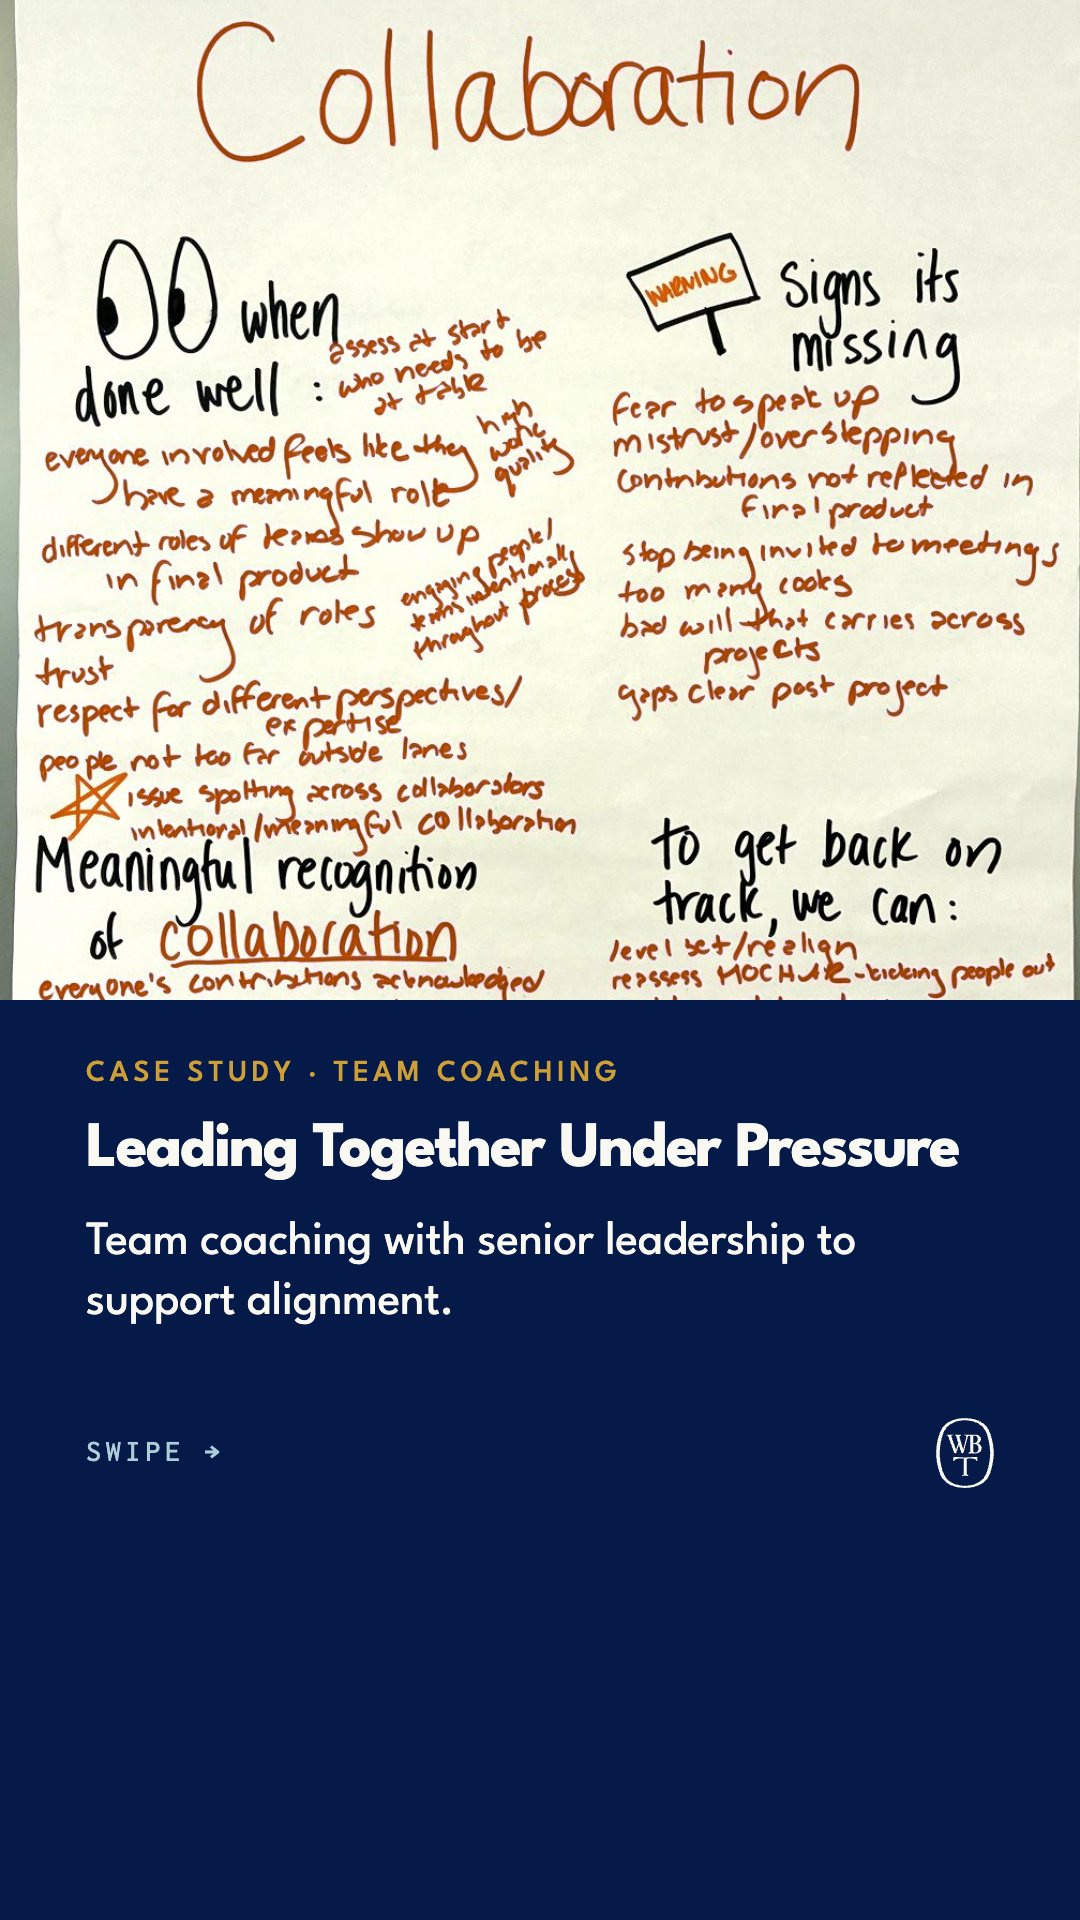
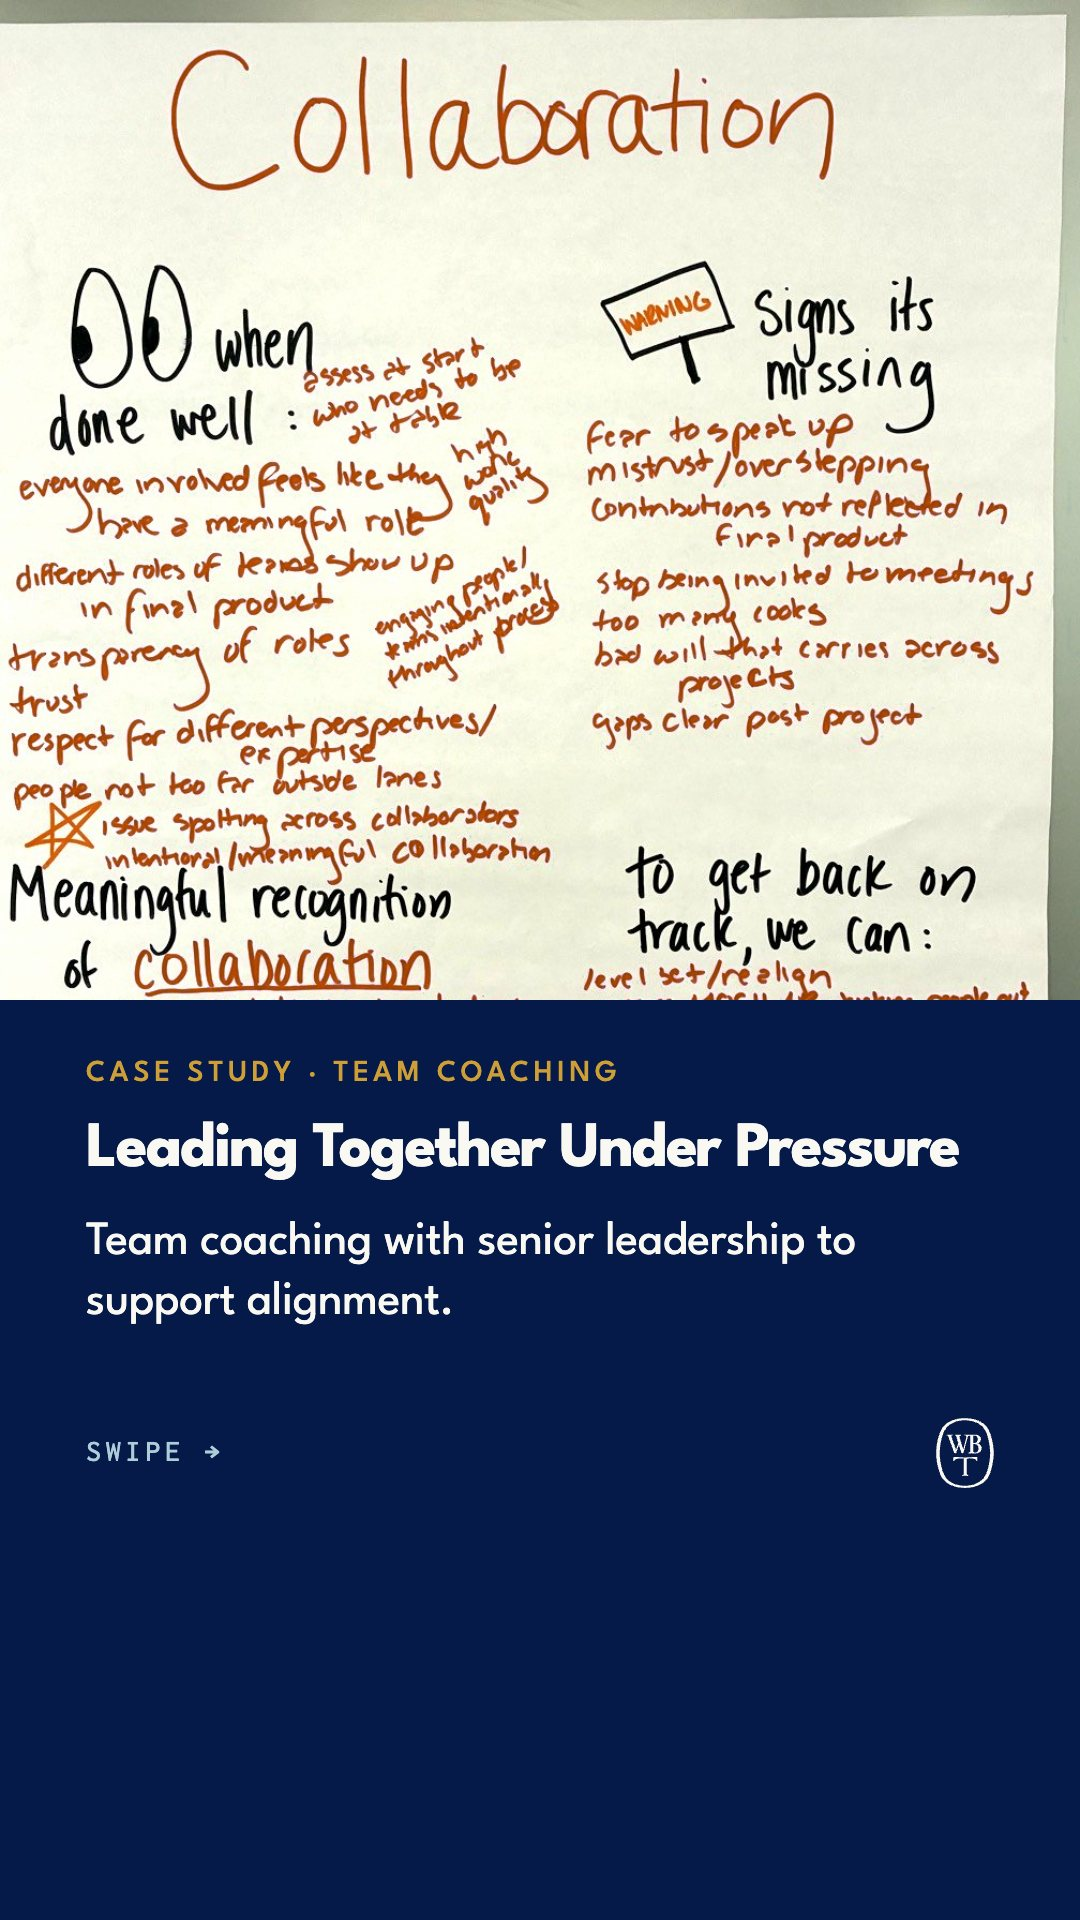
Social: Collaboration photo cropped to the paper (grey wall at left gone, title kept whole, top-anchored)

Changed region(s): [[0.0, 0.0, 1.0, 0.5312]]

diff --git a/social-src/prep_photos.py b/social-src/prep_photos.py
@@ -17,6 +17,8 @@ HERE = os.path.dirname(os.path.abspath(__file__))
 ORIG = os.path.join(HERE, 'photos', 'originals')
 PALETTE = {'ochre': '#B55312', 'blue': '#2531A5', 'slate': '#1E4D5C'}
 TARGET_AB = {k: color.rgb2lab(np.array([[[int(v[i:i + 2], 16) / 255 for i in (1, 3, 5)]]]))[0, 0, 1:] for k, v in PALETTE.items()}
+# Per-photo crops: Collaboration loses the grey wall at left but keeps its title whole at the top.
+CROP = {'leading-together-under-pressure': (0.10, 0.12, 0.06, 0.06)}   # paper edge is ~9.5% from left, ~14% from top: keep the title whole
 BOARDS = ['leading-together-under-pressure', 'developing-endurance-and-agency', 'building-conditions-for-results']
 
 def family(hue):
@@ -32,8 +34,9 @@ def family(hue):
 
 def prep(slug):
     im = Image.open(os.path.join(ORIG, slug + '.jpg')).convert('RGB')
-    w, h = im.size; m = 0.08
-    im = im.crop((int(w * m), int(h * m), int(w * (1 - m)), int(h * (1 - m))))
+    w, h = im.size
+    l, t, r, b = CROP.get(slug, (0.08, 0.08, 0.08, 0.08))      # fractions trimmed from left, top, right, bottom
+    im = im.crop((int(w * l), int(h * t), int(w * (1 - r)), int(h * (1 - b))))
     a = np.asarray(im).astype(float) / 255
     # 1 · levels: paper (92nd percentile of lightness) → white; slight gamma lift
     lum = a.mean(axis=2)

diff --git a/social-src/build_social.py b/social-src/build_social.py
@@ -68,7 +68,7 @@ for p in posts:
 
 # 2 · Case study carousels + stories
 CASE_STYLE = {   # ground, tone, photo object-position
-    'leading-together-under-pressure': ('#061A49', 'dark', '50% 22%'),
+    'leading-together-under-pressure': ('#061A49', 'dark', '50% 0%'),   # top-anchored: keep the “Collaboration” title
     'developing-endurance-and-agency': ('#F9F8F2', 'light', '50% 45%'),
     'building-conditions-for-results': ('#F9F8F2', 'light', '50% 25%'),
     'repairing-a-ruptured-relationship': ('#ACCDD9', 'light', '50% 35%'),
